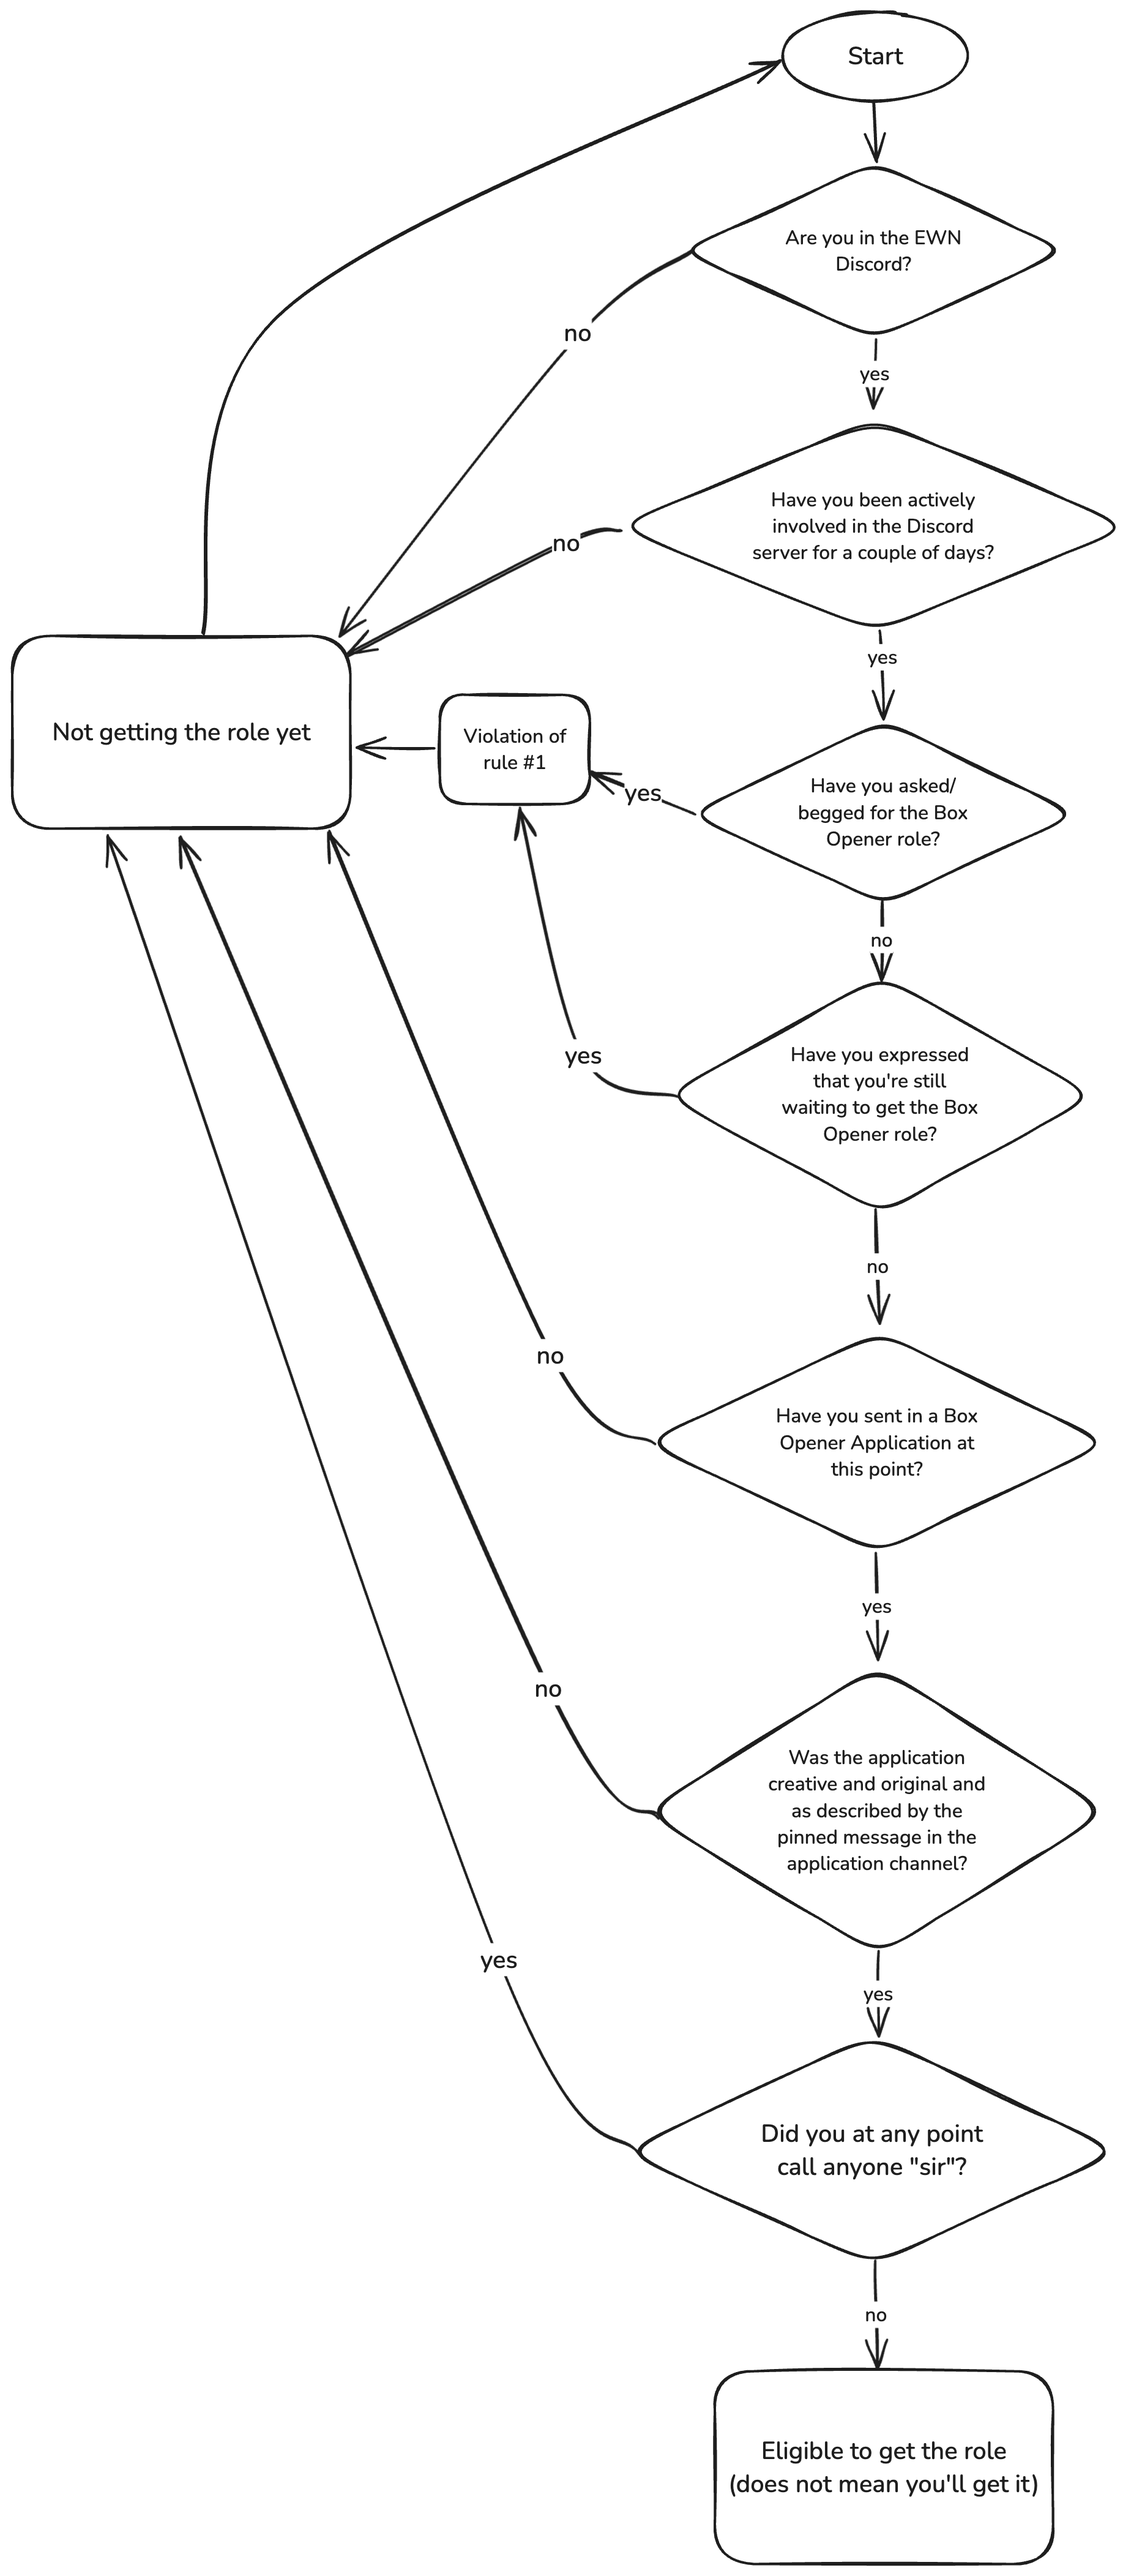
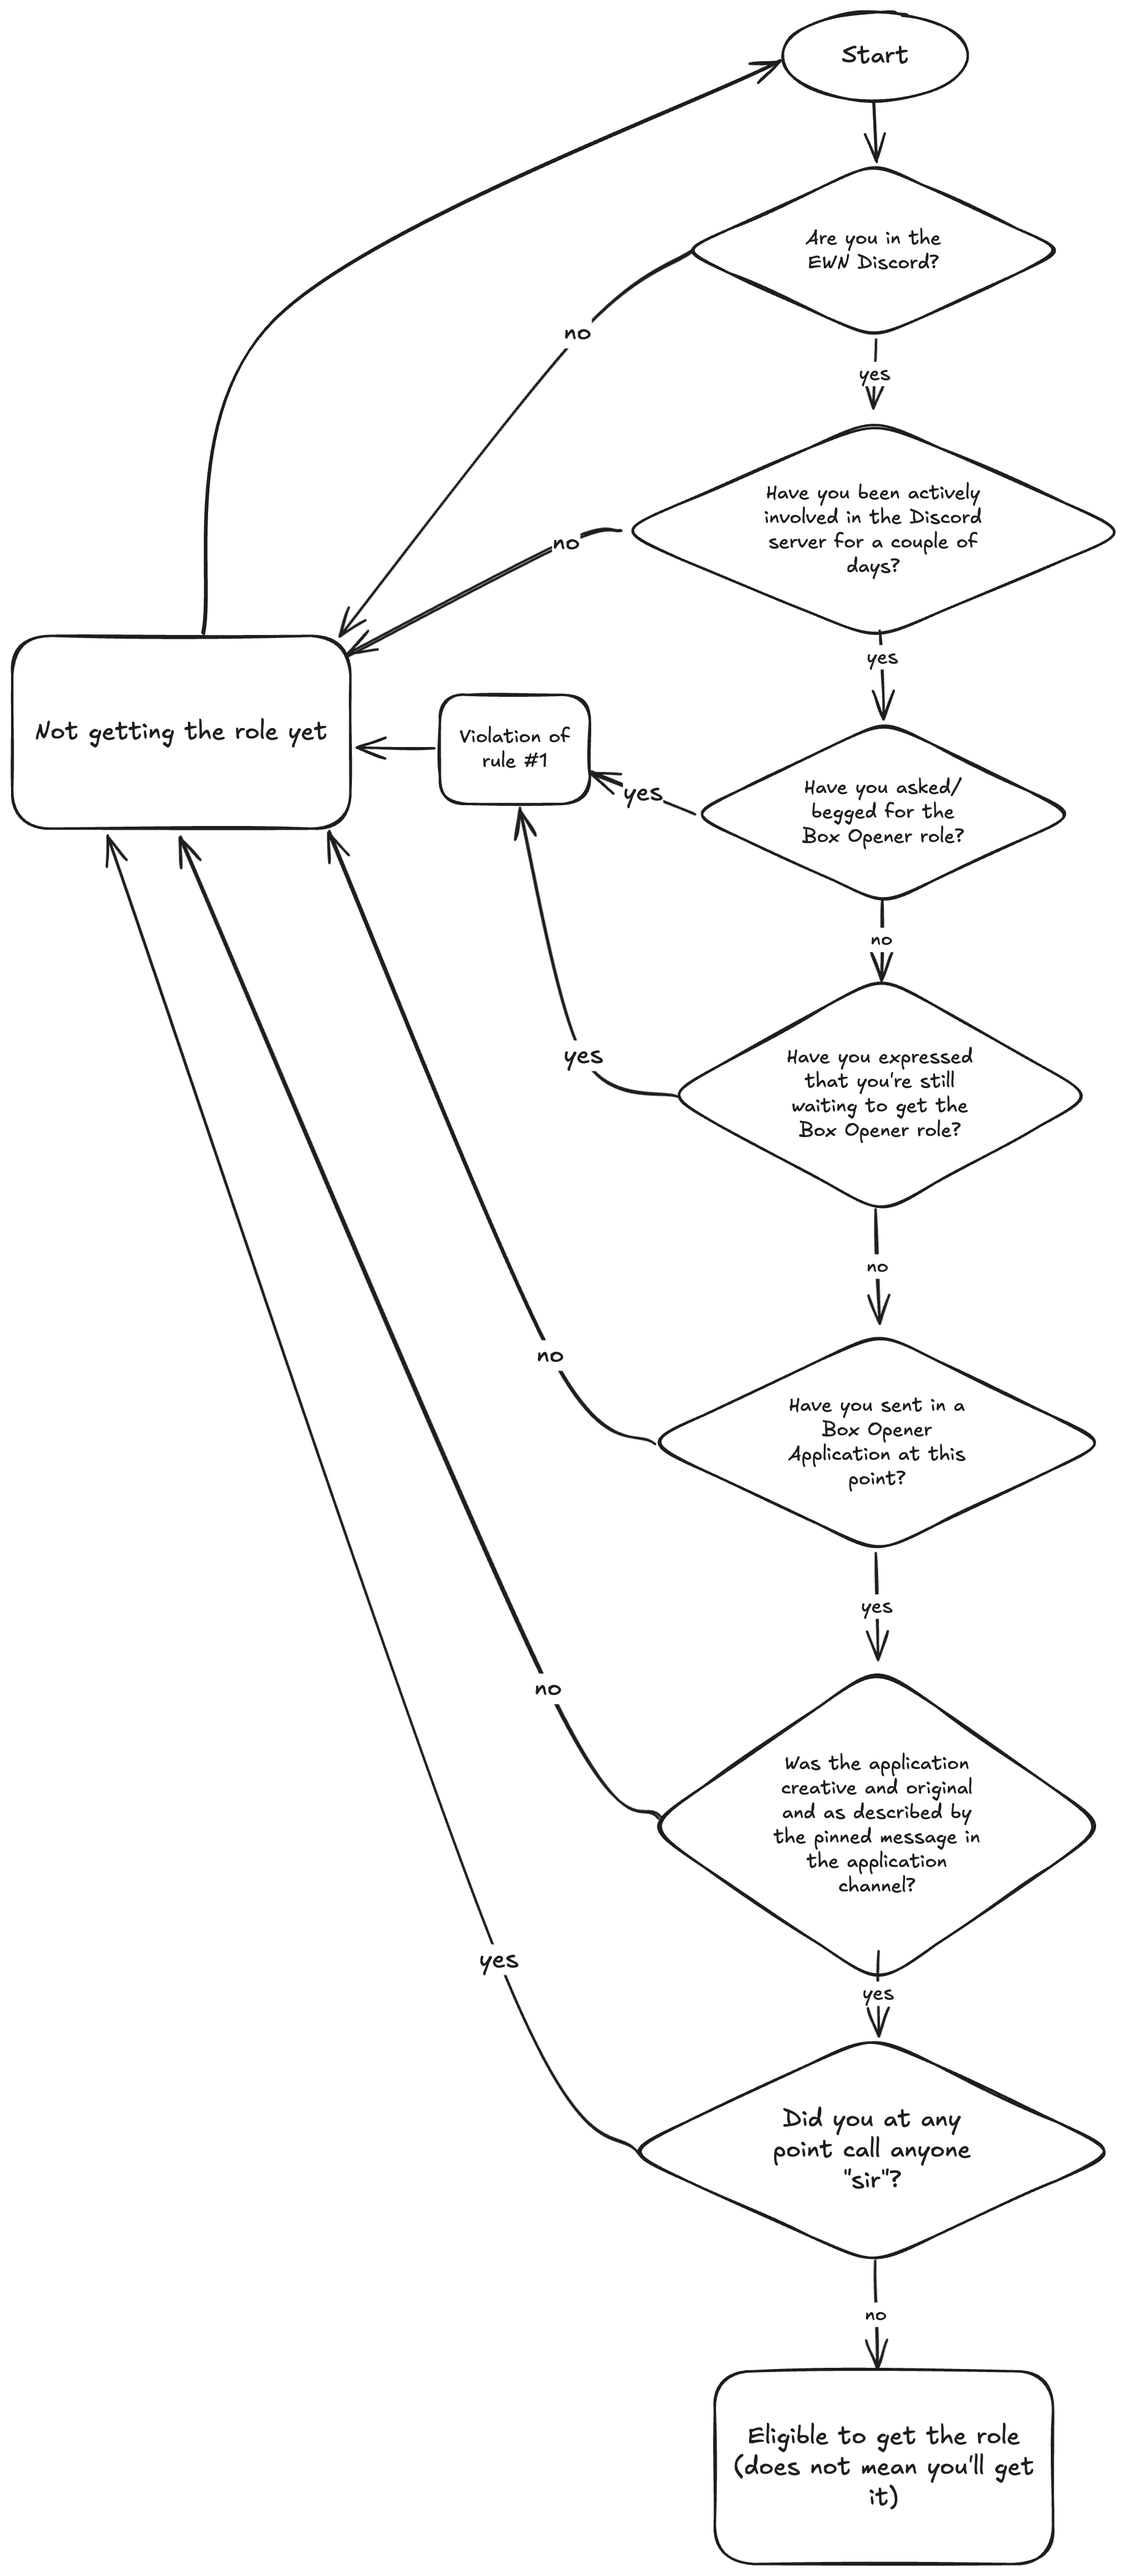
fix roles image & sidebar position

diff --git a/docs/box-openers/box-opener-node-docker-compose.md b/docs/box-openers/box-opener-node-docker-compose.md
@@ -1,0 +1,77 @@
+---
+sidebar_position: 50
+---
+
+# Run Box Opener Node (Docker Compose) 🐙
+
+To create your box opener node you'll need...
+
+- Completed onboarding Solana Wallet & Discord Authorization
+- A device capable of running a Docker Compose stack
+
+## Fetch Your API Key
+
+Login to the Box Opener Dashboard
+
+- Mainnet - https://erwin.lol/box-opener
+- Devnet - https://devnet.erwin.lol/box-opener
+
+Click the "Copy API Key" button to copy your API key to your clipboard. You should keep your API Key a secret and not
+share it with anybody. Sharing your API Key could allow somebody else to control your EWN Box Opener Account.
+
+![Fetch API Key](https://docs.erwin.lol/img/get_api_key.png "Fetch API Key")
+
+## Run Box Opener Node
+
+To EWN box opener node ships as a container image which can be run on popular containerization software including Docker.
+The easiest way to run a box opener node is via Docker Desktop which is free for personal non commercial use, however if you
+are a pro you may wish to deploy your box opener using a different containerization stack and orchestration tools.
+
+### Install Docker Desktop
+
+If you are new to Docker and want the easiest way to get started download and install Docker Desktop from https://www.docker.com/products/docker-desktop/
+
+### Run Box Opener Node
+
+Once Docker is installed open a command prompt (Windows) or terminal (OSX / Linux) window and run the following command replacing
+\<API_KEY\> with the API key you previously copied from the Box Opener Dashboard.
+
+#### Mainnet
+
+```commandline
+docker run -it -e API_KEY=<API_KEY> ghcr.io/erwin-schrodinger-token/ewn-box-opener:latest
+```
+
+#### Devnet
+
+```commandline
+docker run -it -e API_KEY=<API_KEY> -e API_URL=https://devnet-api.erwin.lol/ ghcr.io/erwin-schrodinger-token/ewn-box-opener:latest
+```
+
+:::tip
+
+Replace the `-it` (interactive) flag with the `-d` (detached mode) flag to run the container in the background.
+
+:::
+
+#### Logging
+
+You should then see a log in your terminal describing the actions that your box opener node is performing. Please note it is
+normal to receive "❌ Guesses rejected (429): Guess Rate Limit Hit" error messages when you first start your box opener node,
+this should settle down over time and lead to a majority of "✅ Guesses accepted" messages instead.
+
+:::note
+
+If you're running the container in the background (`-d` flag) you can follow the logs with `docker logs -f <container-id>`. This command will display the latest logs and continuously follow new logs in real-time.
+
+To stop following the logs, press `Ctrl+C`.
+
+To find out the container ID, run `docker ps` and look for the `CONTAINER ID` column.
+
+:::
+
+Your box opener node will continue to submit guesses to open the current EWN box providing you keep the terminal window open
+and the device powered on.
+
+If you are familiar with Docker or whichever container orchestration you are using to execute your box opener node then you
+may wish to daemonize the container to run it in the background.

diff --git a/docs/introduction/roles.md b/docs/introduction/roles.md
@@ -12,7 +12,7 @@ The Box Opener role is the equivalent of a miner in other crypto projects. Box O
 
 The Box Opener role is given to community members who actively contribute in a positive way and help promote EWN. To apply for this role, you must first engage with the community, then submit a Box Opener Application through the [Discord server](https://discord.gg/GechF7dFHZ). The flowchart below outlines the steps to determine if you’re eligible for the Box Opener role.
 
-![Box Opener Role Flow Chart](https://docs.erwin.lol/img/oracle_flow_chart.png "Box Opener Role Flow Chart")
+![Box Opener Role Flow Chart](https://docs.erwin.lol/img/box_opener_role_flowchart.png "Box Opener Role Flow Chart")
 
 ## Liquidity Legend
 

diff --git a/docs/box-openers/claim-rewards.md b/docs/box-openers/claim-rewards.md
@@ -1,6 +1,5 @@
 ---
-sidebar_position: 40
+sidebar_position: 60
 ---
 
 # Claim Rewards
-
